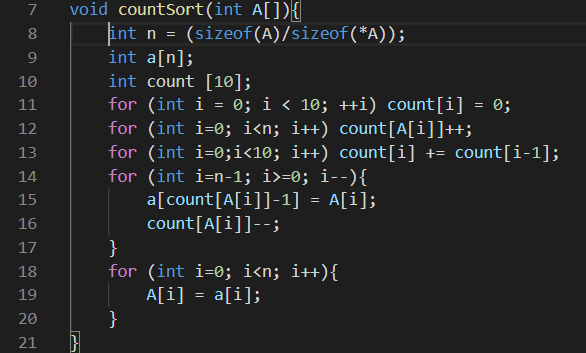
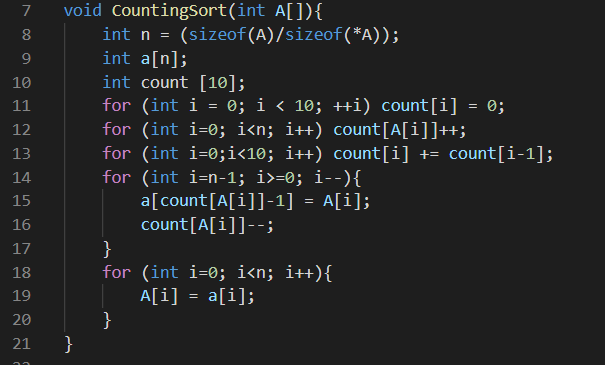
changes

diff --git a/AlgoList.html b/AlgoList.html
@@ -72,7 +72,7 @@
             </p>
             <img src="Images/countsort.PNG">
             <br>
-            Here is a text with the code that you can use : <a href="codes/countsort.txt" download="countsort">Download CountSort</a>
+            Here is a text with the code that you can use : <a href="codes/Countingsort.txt" download="countsort">Download CountingSort</a>
             <p>
                 <strong>Radix Sort</strong>
                 <br>
